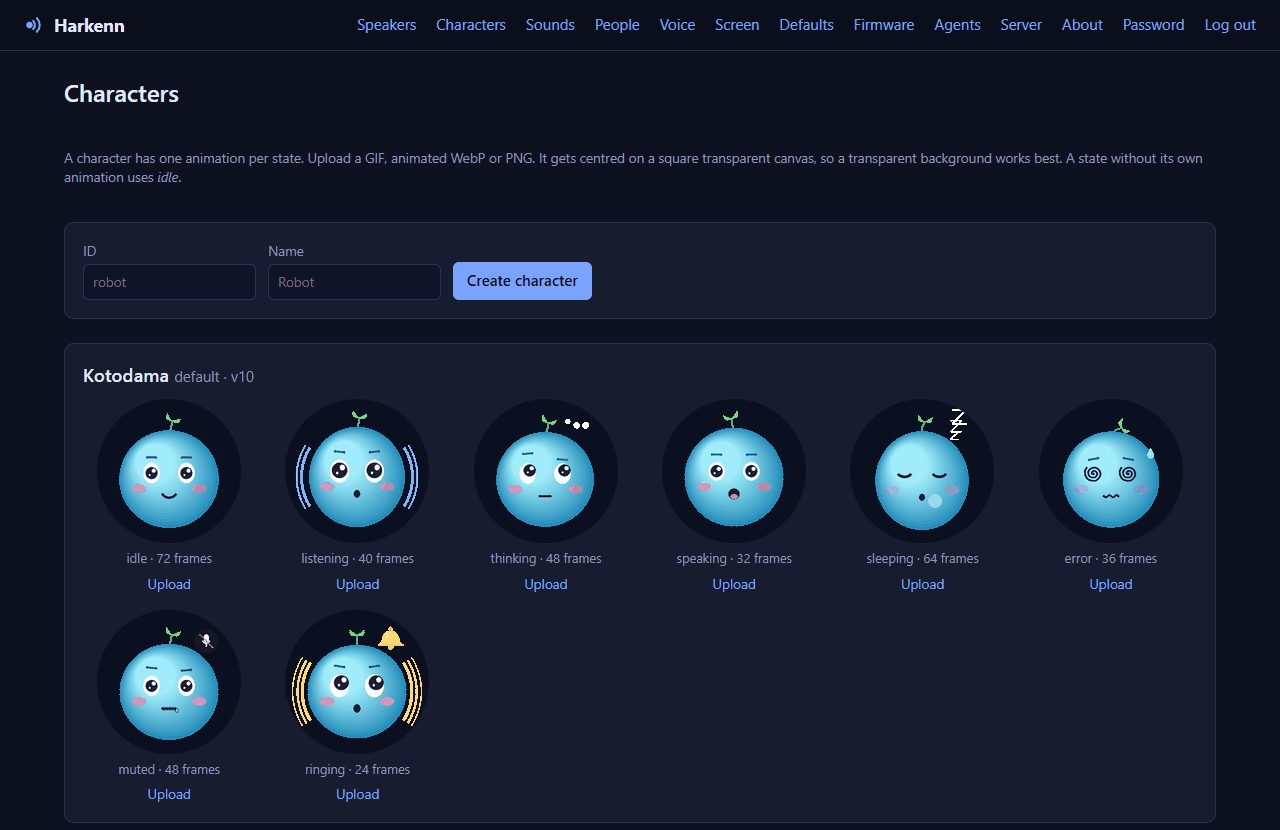
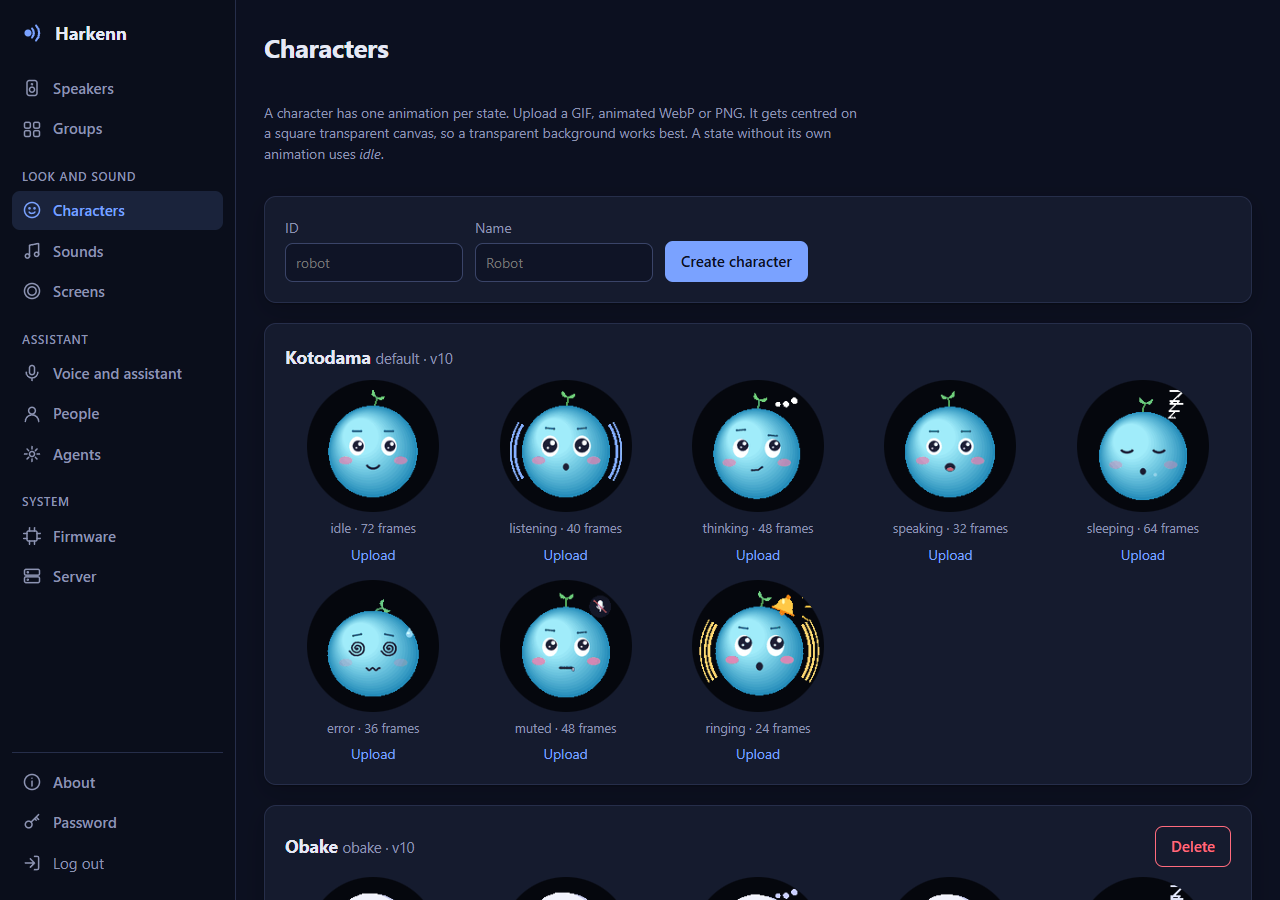
New screenshots of the admin pages; tidier Voice page
Screenshots of the redesigned admin: speakers in groups, a speaker's overview
and Wi-Fi settings, groups, voice, screens, characters, people, and a phone.

The Voice page's "seconds" and "minutes" sit next to their boxes again, the
long API URL examples wrap instead of running under the Model box, and the
Screens editor uses the room it has.

diff --git a/app/templates/voice.html b/app/templates/voice.html
@@ -48,7 +48,7 @@
     <label>Model <input name="assistant_model" placeholder="e.g. deepseek-v4-flash, llama3.2">
       <small>Empty: the server's default (Hermes: its configured model).</small></label>
     <label>API key <input name="assistant_key" type="password" autocomplete="off"></label>
-    <label>Answer within <input name="assistant_timeout_s" type="number" min="5" max="600"> seconds
+    <label>Answer within <span class="with-unit"><input name="assistant_timeout_s" type="number" min="5" max="600"> seconds</span>
       <small>Agents that use tools (Home Assistant, the web) can take a while; the speaker keeps waiting.</small></label>
     <p class="hint" id="assistant-env" hidden></p>
     <label>Instructions <textarea name="system_prompt" rows="5" placeholder="Empty: the built-in instructions"></textarea>
@@ -63,11 +63,13 @@
       <option value="questions">Only when the answer is a question</option>
       <option value="never">Never</option></select>
       <small>A soft blip means it's listening. If no one says anything, the conversation ends.</small></label>
-    <label class="inline"><input type="checkbox" name="screen"> The assistant may show pictures and buttons on the
-      speakers' screens (<a href="/admin/screen">Screen</a> page)</label>
-    <label>The assistant remembers the last <input name="context_conversations" type="number" min="0" max="50">
-      conversations from the last <input name="context_minutes" type="number" min="1" max="1440"> minutes
-      <small>0 conversations: every question stands alone. Replies within a conversation always count as one.</small></label>
+    <label class="inline"><input type="checkbox" name="screen"> <span>The assistant may show pictures and buttons on the
+      speakers' screens (<a href="/admin/screen">Screen</a> page)</span></label>
+    <label>The assistant remembers the last
+      <span class="with-unit"><input name="context_conversations" type="number" min="0" max="50"> conversations</span>
+      <small>0: every question stands alone. Replies within a conversation always count as one.</small></label>
+    <label>… from the last
+      <span class="with-unit"><input name="context_minutes" type="number" min="1" max="1440"> minutes</span></label>
     <label>Voice recognition match <input name="voiceprint_threshold" type="number" min="0.4" max="0.95" step="0.01">
       <small>How alike a voice must be to the voiceprints on the <a href="/admin/people">People</a> page to count as
         that person (0.70 by default). Higher means fewer wrong guesses but more "not recognized".</small></label>

diff --git a/app/static/admin.css b/app/static/admin.css
@@ -151,7 +151,10 @@ legend { color: var(--text); font-weight: 650; padding-right: 8px; font-size: 1.
 .form { display: grid; gap: 4px; }
 /* the settings pages (voice, server...): fields side by side where there's room */
 .card.form fieldset { grid-template-columns: repeat(auto-fit, minmax(280px, 1fr)); gap: 14px 22px; padding-bottom: 14px; align-items: start; }
-.card.form fieldset > label { align-content: start; }
+.card.form fieldset > label { align-content: start; min-width: 0; }
+label code { overflow-wrap: anywhere; }
+.with-unit { display: flex; align-items: center; gap: 8px; flex-wrap: wrap; color: var(--text); }
+.with-unit input { width: 90px; }
 .card.form fieldset > :is(.hint, label.inline, div, p, #wakewords-list, #wakeword-list, .inline-form) { grid-column: 1 / -1; }
 .card.form fieldset > label:has(textarea) { grid-column: 1 / -1; }
 .card.form .buttons { padding-top: 6px; }
@@ -318,6 +321,7 @@ dialog#secret .secret { font-size: 1.6em; letter-spacing: .05em; user-select: al
 
 /* screens page, about page */
 .screen-try { display: flex; gap: 16px; flex-wrap: wrap; align-items: flex-start; }
+.screen-try > .grow { flex: 1; min-width: 260px; }
 .screen-try textarea { width: 100%; font-family: ui-monospace, monospace; font-size: .85em; }
 .screen-preview { position: relative; width: 240px; height: 240px; border-radius: 50%; overflow: hidden; background: #000; flex: none; }
 .screen-preview img { display: block; }

diff --git a/README.md b/README.md
@@ -77,9 +77,13 @@ The admin pages, from a demo server with made-up speakers and people.
 
 | | |
 |---|---|
-| [<img src="docs/media/admin-speakers.png" alt="The Speakers page: three speakers online, with Wi-Fi signal, battery and firmware">](docs/media/admin-speakers.png) **Speakers** at a glance | [<img src="docs/media/admin-speaker.png" alt="A speaker's page: live status and its configuration, with a preview of its screen">](docs/media/admin-speaker.png) **A speaker**: live status, screen, sound and wake word |
-| [<img src="docs/media/admin-voice.png" alt="The Voice page: speech recognition, voice and assistant settings">](docs/media/admin-voice.png) **Voice**: speech, the voice, and your assistant | [<img src="docs/media/admin-screen.png" alt="The Screen page: a preview of a screen asking 'Turn on the porch light?' with Yes and No buttons">](docs/media/admin-screen.png) **Screen**: try what the assistant can show |
-| [<img src="docs/media/admin-characters.png" alt="The Characters page: the built-in Kotodama and Obake characters in every state">](docs/media/admin-characters.png) **Characters**, built in or your own | [<img src="docs/media/admin-people.png" alt="The People page: a person with a name, phonetic spelling, gender identity and voice samples">](docs/media/admin-people.png) **People** and their voiceprints (opt-in) |
+| [<img src="docs/media/admin-speakers.png" alt="The Speakers page: six speakers as cards in their groups (Home, Bedrooms, Cabin), with state, Wi-Fi signal, battery and firmware">](docs/media/admin-speakers.png) **Speakers**, in their groups | [<img src="docs/media/admin-speaker.png" alt="A speaker's Overview tab: tiles for state, Wi-Fi, IP address, volume, firmware, uptime and its own settings">](docs/media/admin-speaker.png) **A speaker** at a glance |
+| [<img src="docs/media/admin-speaker-settings.png" alt="A speaker's Wi-Fi settings: the group's network, and the speaker's own copy of it with a fixed IP address">](docs/media/admin-speaker-settings.png) **Its settings**: the group's, or its own (here a fixed IP) | [<img src="docs/media/admin-groups.png" alt="The Groups page: Home, Bedrooms and Cabin, with their speakers">](docs/media/admin-groups.png) **Groups** share settings |
+| [<img src="docs/media/admin-group.png" alt="A group's page: its speakers, and the settings they share, with a preview of the screen">](docs/media/admin-group.png) **A group**: its speakers and their shared settings | [<img src="docs/media/admin-voice.png" alt="The Voice and assistant page: speech recognition, voice, assistant and conversation settings">](docs/media/admin-voice.png) **Voice and assistant** |
+| [<img src="docs/media/admin-screen.png" alt="The Screens page: a preview of a screen asking 'Turn on the porch light?' with Yes and No buttons">](docs/media/admin-screen.png) **Screens**: try what the assistant can show | [<img src="docs/media/admin-characters.png" alt="The Characters page: the built-in Kotodama character in every state">](docs/media/admin-characters.png) **Characters**, built in or your own |
+| [<img src="docs/media/admin-people.png" alt="The People page: people with a name, phonetic spelling, gender identity and voice samples">](docs/media/admin-people.png) **People** and their voiceprints (opt-in) | [<img src="docs/media/admin-phone.png" alt="On a phone: the menu open, and a speaker's page in the light theme">](docs/media/admin-phone.png) **On a phone**, dark or light |
+
+What the speakers show is in [speaker-firmware](https://github.com/harkenn-project/speaker-firmware#screens).
 
 ## Docs
 
